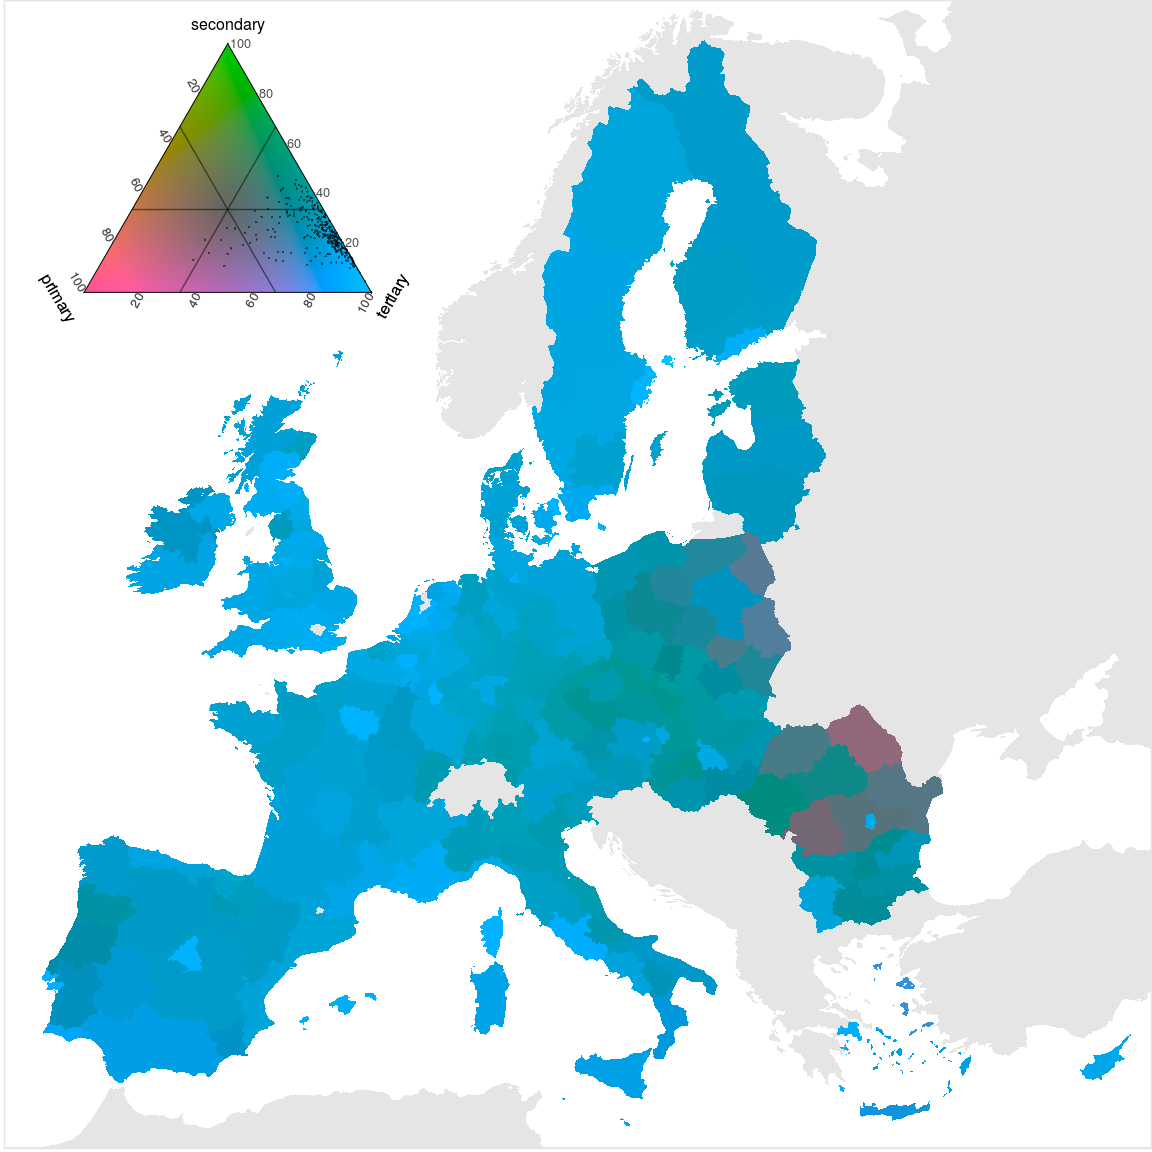
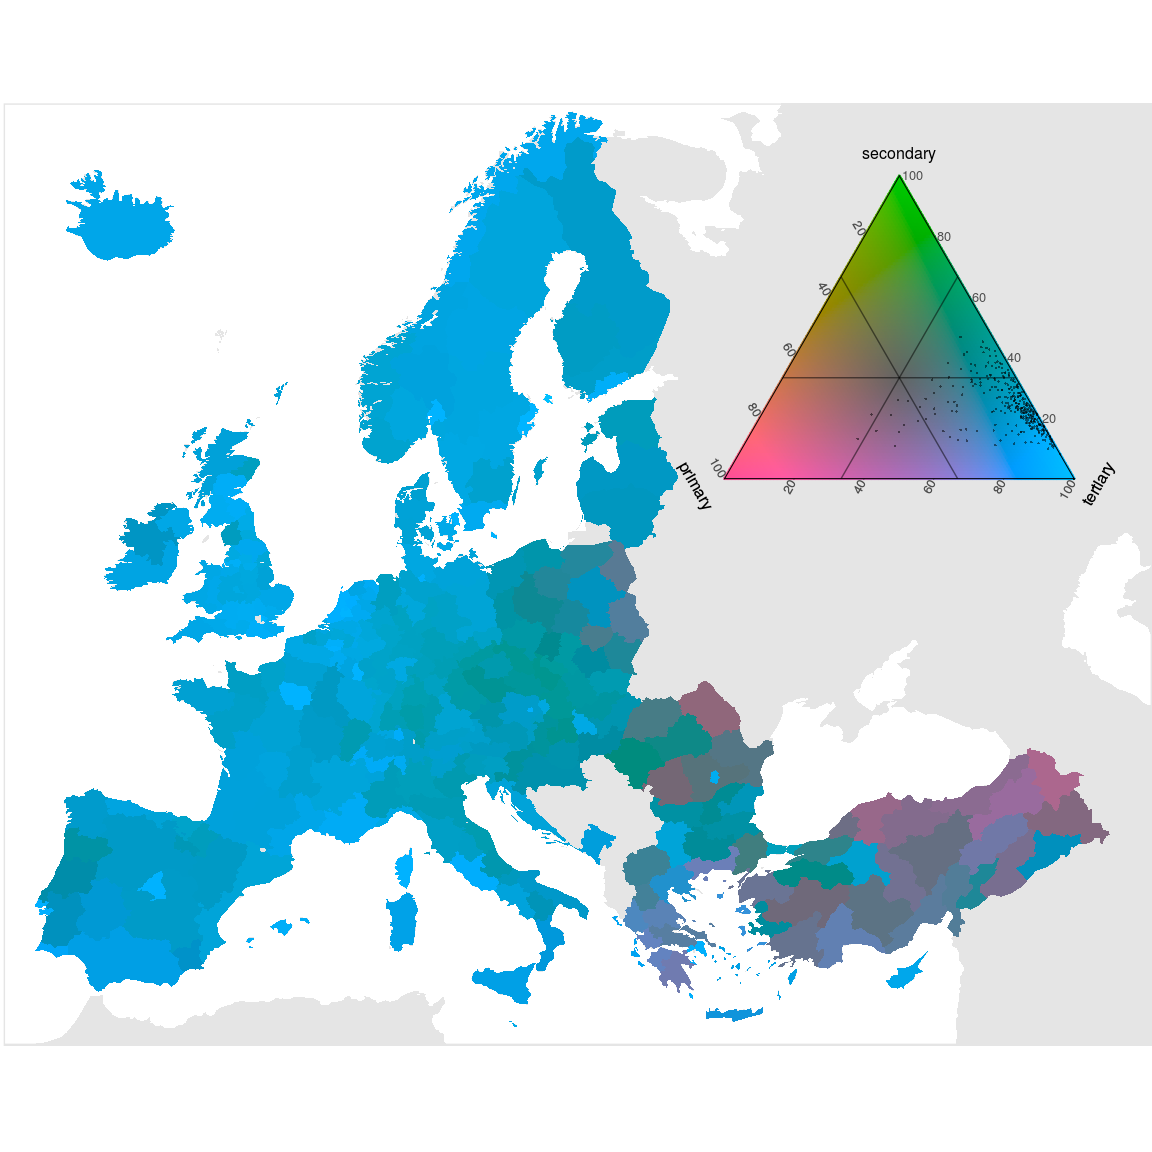
Update Readme

diff --git a/README.md b/README.md
@@ -1,7 +1,7 @@
 Tricolore. A flexible color scale for ternary compositions
 ================
 Jonas Schöley
-Sun Jan 14 22:42:01 2018
+Thu Jan 18 16:56:35 2018
 
 What is 'tricolore'?
 --------------------
@@ -41,7 +41,7 @@ tric <- Tricolore(P, 'V1', 'V2', 'V3')
 head(tric$hexsrgb)
 ```
 
-    ## [1] "#886968FF" "#6D8246FF" "#9775C2FF" "#9A6F5BFF" "#A57256FF" "#00929BFF"
+    ## [1] "#3487A6FF" "#776B86FF" "#B3678EFF" "#A26D64FF" "#5F696BFF" "#7D7055FF"
 
 ``` r
 tric$legend
@@ -56,66 +56,73 @@ You can familiarize yourself with the various options of `tricolore` by running 
 Case study: European labor force composition.
 ---------------------------------------------
 
-We are interested in the regional distribution of labor force by sector in the European Union. The `eu_sectors` data contains the share of workers in the three sectors for the year 2016 by NUTS-2 region.
+We are interested in the regional distribution of labor force by sector in the European Union. The `euro_sectors` data contains the share of workers in the three sectors for the year 2016 by NUTS-2 region.
 
 ``` r
-head(eu_sectors)
+euro_sectors <- subset(euro_sectors, year == 2016)
+head(euro_sectors)
 ```
 
-    ## # A tibble: 6 x 4
-    ##   nuts2     primary secondary  tertiary
-    ##   <chr>       <dbl>     <dbl>     <dbl>
-    ## 1  AT11 0.044227886 0.2683658 0.6821589
-    ## 2  AT12 0.056190950 0.2437842 0.6999005
-    ## 3  AT13 0.005176357 0.1433731 0.8515710
-    ## 4  AT21 0.056603774 0.2649211 0.6707740
-    ## 5  AT22 0.060979730 0.2920608 0.6469595
-    ## 6  AT31 0.062290240 0.3311854 0.6063901
+    ## # A tibble: 6 x 5
+    ##    year nuts2 primary secondary tertiary
+    ##   <int> <chr>   <dbl>     <dbl>    <dbl>
+    ## 1  2016 AT11  0.0442      0.268    0.682
+    ## 2  2016 AT12  0.0562      0.244    0.700
+    ## 3  2016 AT13  0.00518     0.143    0.852
+    ## 4  2016 AT21  0.0566      0.265    0.671
+    ## 5  2016 AT22  0.0610      0.292    0.647
+    ## 6  2016 AT31  0.0623      0.331    0.606
 
-In order to prepare a map I've prepared a data frame with the outlines of the European NUTS-2 regions and neighboring countries, `eushp_nuts2`
+In order to prepare a map I've prepared a data frame with the outlines of the European NUTS-2 regions and neighbouring countries, `euro_geo_nuts2`.
 
 ``` r
-head(eushp_nuts2)
+head(euro_geo_nuts2)
 ```
 
-    ##      long     lat order  hole piece   id  group
-    ## 1 4846481 2803517     1 FALSE     1 AT11 AT11.1
-    ## 2 4847144 2796869     2 FALSE     1 AT11 AT11.1
-    ## 3 4847445 2793855     3 FALSE     1 AT11 AT11.1
-    ## 4 4848217 2793632     4 FALSE     1 AT11 AT11.1
-    ## 5 4849195 2793349     5 FALSE     1 AT11 AT11.1
-    ## 6 4849699 2793204     6 FALSE     1 AT11 AT11.1
+    ##      long     lat order  hole piece id group
+    ## 1 4832035 2857837     1 FALSE     1 AT  AT.1
+    ## 2 4833566 2848881     2 FALSE     1 AT  AT.1
+    ## 3 4827292 2837438     3 FALSE     1 AT  AT.1
+    ## 4 4827506 2827929     4 FALSE     1 AT  AT.1
+    ## 5 4836894 2818773     5 FALSE     1 AT  AT.1
+    ## 6 4839233 2808803     6 FALSE     1 AT  AT.1
 
 Using tricolore, I color-code each regions labor force composition and merge the resulting vector of hexsrgb color codes with the map data.
 
 ``` r
-# generate colors based on compositions in `eu_sectors`, default options
-tricol <- Tricolore(eu_sectors, 'primary', 'secondary', 'tertiary')
+# generate colors based on compositions in `euro_sectors`, default options
+tricol <- Tricolore(euro_sectors, 'primary', 'secondary', 'tertiary')
 
 # merge vector of colors with with map data
-eu_sectors$srgb <- tricol$hexsrgb
-map_data <- dplyr::left_join(eushp_nuts2, eu_sectors, by = c('id' = 'nuts2'))
+euro_sectors$srgb <- tricol$hexsrgb
+map_data <- dplyr::left_join(euro_geo_nuts2, euro_sectors, by = c('id' = 'nuts2'))
 ```
 
 I use `ggplot2` to plot a map of Europe with each NUTS-2 region shaded according to its corresponding hexsrgb values (`scale_fill_identity()`). I merge the color-key returned by `tricolore` with the map using the `annotation_custom()` function.
 
 ``` r
-europe_map +
+euro_basemap +
   geom_polygon(aes(long, lat, group = group, fill = srgb),
                data = map_data) +
   scale_fill_identity() +
-  annotation_custom(ggplotGrob(tricol$legend),
-                    xmin = -7e5, xmax = 73e5, ymin = 42e5, ymax = 55e5)
+  annotation_custom(
+    ggplotGrob(
+      tricol$legend +
+        theme(plot.background = element_rect(fill = NA, color = NA))
+    ),
+    xmin = 53e5, xmax = Inf, ymin = 35e5, ymax = Inf)
 ```
 
 ![](README_files/figure-markdown_github/unnamed-chunk-7-1.png)
 
-*Labor force composition in EU regions. Default color scale options. Data by eurostat.* Europe's labor force predominantly works in the tertiary sector, as seen by a map colored in various shades of blue. Reddish and greenish hues in eastern Europe indicate a higher share of primary and secondary labor force respectively.
+*Labor force composition in EU regions. Default color scale options. Data by eurostat.*
+
+Europe's labor force predominantly works in the tertiary sector, as seen by a map colored in various shades of blue. Reddish and greenish hues in eastern Europe indicate a higher share of primary and secondary labor force respectively.
 
 I'm not happy with the basic colors used to represent primary, secondary, and tertiary sectors. I think its much more natural to encode the primary (agricultural) sector in green, the secondary (industrial) sector in blue and the tertiary (services) sector in red. This is easily achieved by changing *hue* parameter of the color scale.
 
 ``` r
-tricol <- Tricolore(eu_sectors, 'primary', 'secondary', 'tertiary', hue = 0.33)
+tricol <- Tricolore(euro_sectors, 'primary', 'secondary', 'tertiary', hue = 0.33)
 ```
 
 *In the examples to follow I omit the whole mapping code. It is identical for all examples.*
@@ -127,7 +134,7 @@ tricol <- Tricolore(eu_sectors, 'primary', 'secondary', 'tertiary', hue = 0.33)
 Up until now I used continuous colors to show the regional labor force composition. A discrete color scale introduces sharp contours which sometimes pronounce interesting patterns in the data. The `k` parameter determines the number of colors for the color scale. A value of 3 gives a discrete scale of 3^2=9 colors. The discrete scale pronounces the east-west divide in labor force composition.
 
 ``` r
-tricol <- Tricolore(eu_sectors, 'primary', 'secondary', 'tertiary', hue = 0.33, k = 3)
+tricol <- Tricolore(euro_sectors, 'primary', 'secondary', 'tertiary', hue = 0.33, k = 3)
 ```
 
 ![](README_files/figure-markdown_github/unnamed-chunk-11-1.png)
@@ -139,7 +146,7 @@ A technique I've adopted from compositional data analysis is *ternary centering*
 Centering the color scale over the labor-force composition of the average European NUTS-2 region shows various patterns of deviations from the average. Metropolitan regions (Hamburg, Stockholm, Paris, Madrid) have a higher than average share of tertiary workers. Large parts of France are quite grey, indicating a labor-force composition close to the average, while Eastern Europe, the south of Spain and Italy have a higher than average share of workers active in the primary sector.
 
 ``` r
-tricol <- Tricolore(eu_sectors, 'primary', 'secondary', 'tertiary',
+tricol <- Tricolore(euro_sectors, 'primary', 'secondary', 'tertiary',
                     hue = 0.33, center = NA)
 ```
 
